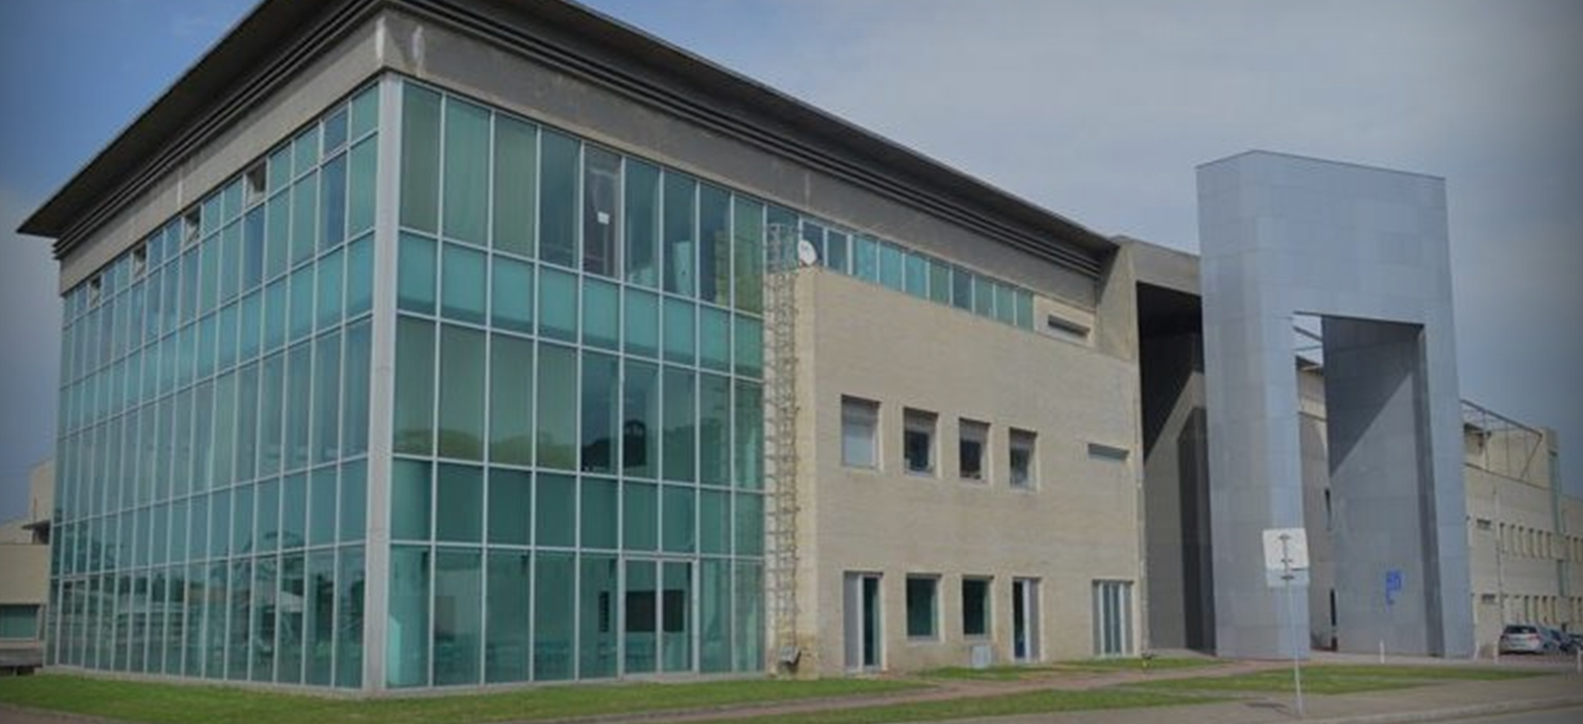
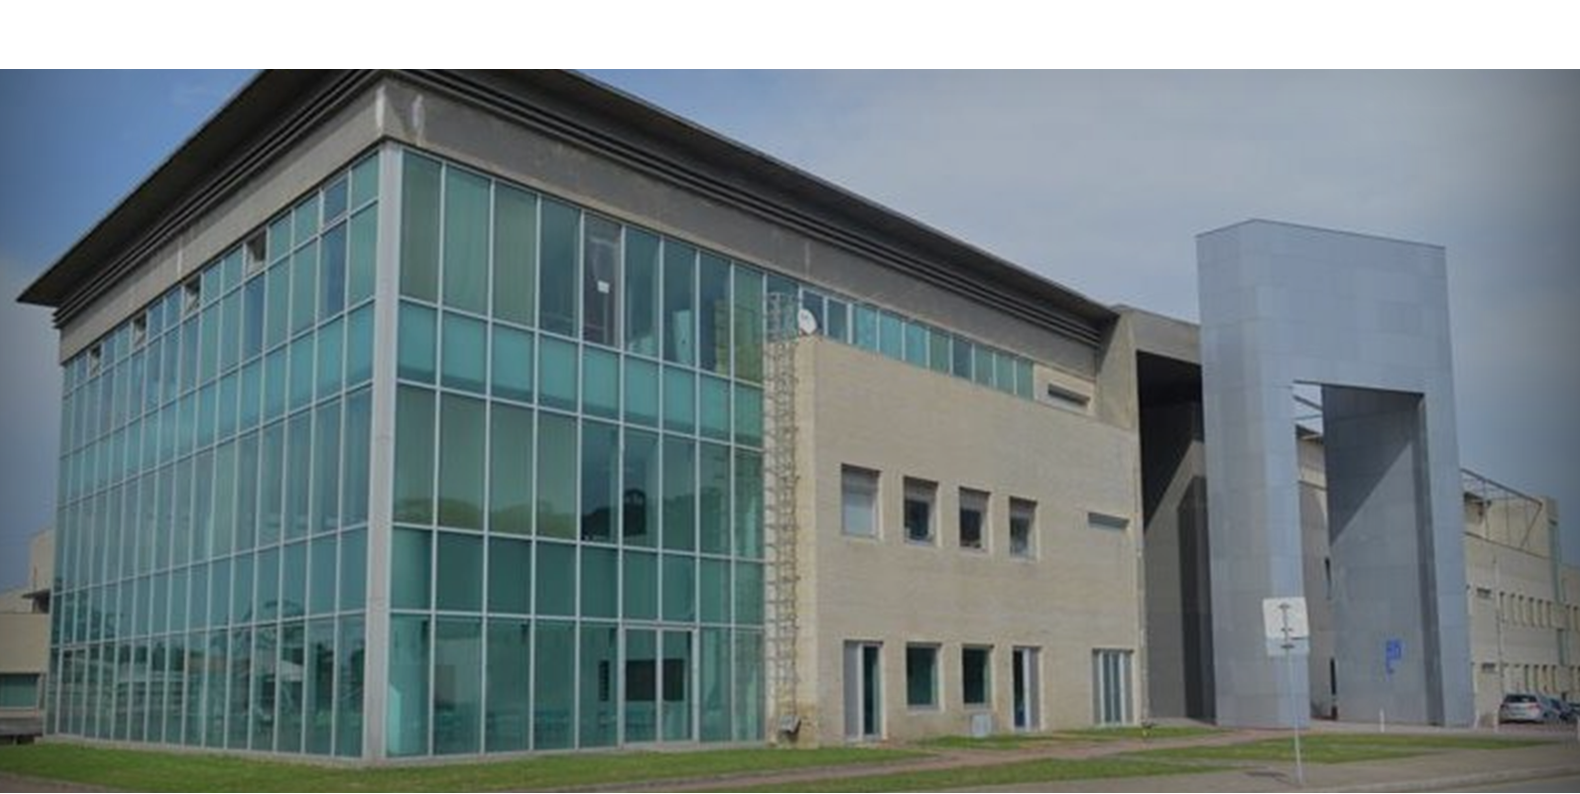
Added content to the Modals

diff --git a/Site/index.html b/Site/index.html
@@ -42,7 +42,7 @@
   
 
 <div class="container">
-  
+
       <!-- Login Modal-->
 
  <div class="modal fade" id="loginModal" role="dialog">
@@ -57,7 +57,15 @@
         </div>
       
         <div class="modal-body">
-          <p>Some text in the modal.</p>
+            <form>
+              <p>User Name</p>
+              <input type="text" name="username" value="">
+              <br></br>
+              <p>Password:</p>
+              <input type="text" name="password" value="">
+              <br><br>
+              <input type="submit" class="btn btn-default" value="Login">
+            </form> 
         </div>
 
         <div class="modal-footer">
@@ -84,7 +92,20 @@
             </div>
           
             <div class="modal-body">
-              <p>Some text in the modal.</p>
+                <form>
+                    <p>Email:</p>
+                    <input type="text" name="email" value="">
+                    <p>User Name</p>
+                    <input type="text" name="username" value="">
+                    <br></br>
+                    <p>Password:</p>
+                    <input type="text" name="password" value="">
+                    <br></br>
+                    <p>Repetir Password:</p>
+                    <input type="text" name="password" value="">
+                    <br></br>
+                    <input type="submit" class="btn btn-default" value="Sign Up">
+                  </form> 
             </div>
     
             <div class="modal-footer">
@@ -135,7 +156,7 @@
             
             </div>
 
-            <div>
+            <div class="tsipb">
 
                     <center><p class="tsiyou-title">Parcerias</p></center>
         

diff --git a/Site/index.css b/Site/index.css
@@ -36,7 +36,7 @@
         padding-right: 30px;
         padding-top: 5px;
       }
-      
+
       /* Footer*/
       .tsiyou-footer{
 
@@ -53,12 +53,13 @@
       .tsiyou-landing{
         background-image: url("bg2.png");
         width: 1583px;
-        min-height: 700px;
+        min-height: 800px;
         max-height: auto;
         text-align: center;
         width:100%;
         margin:0 auto;
-        padding-top: 16px;
+        padding-top: 30px;
+        
       }
 
       .tsiyou-landing p {
